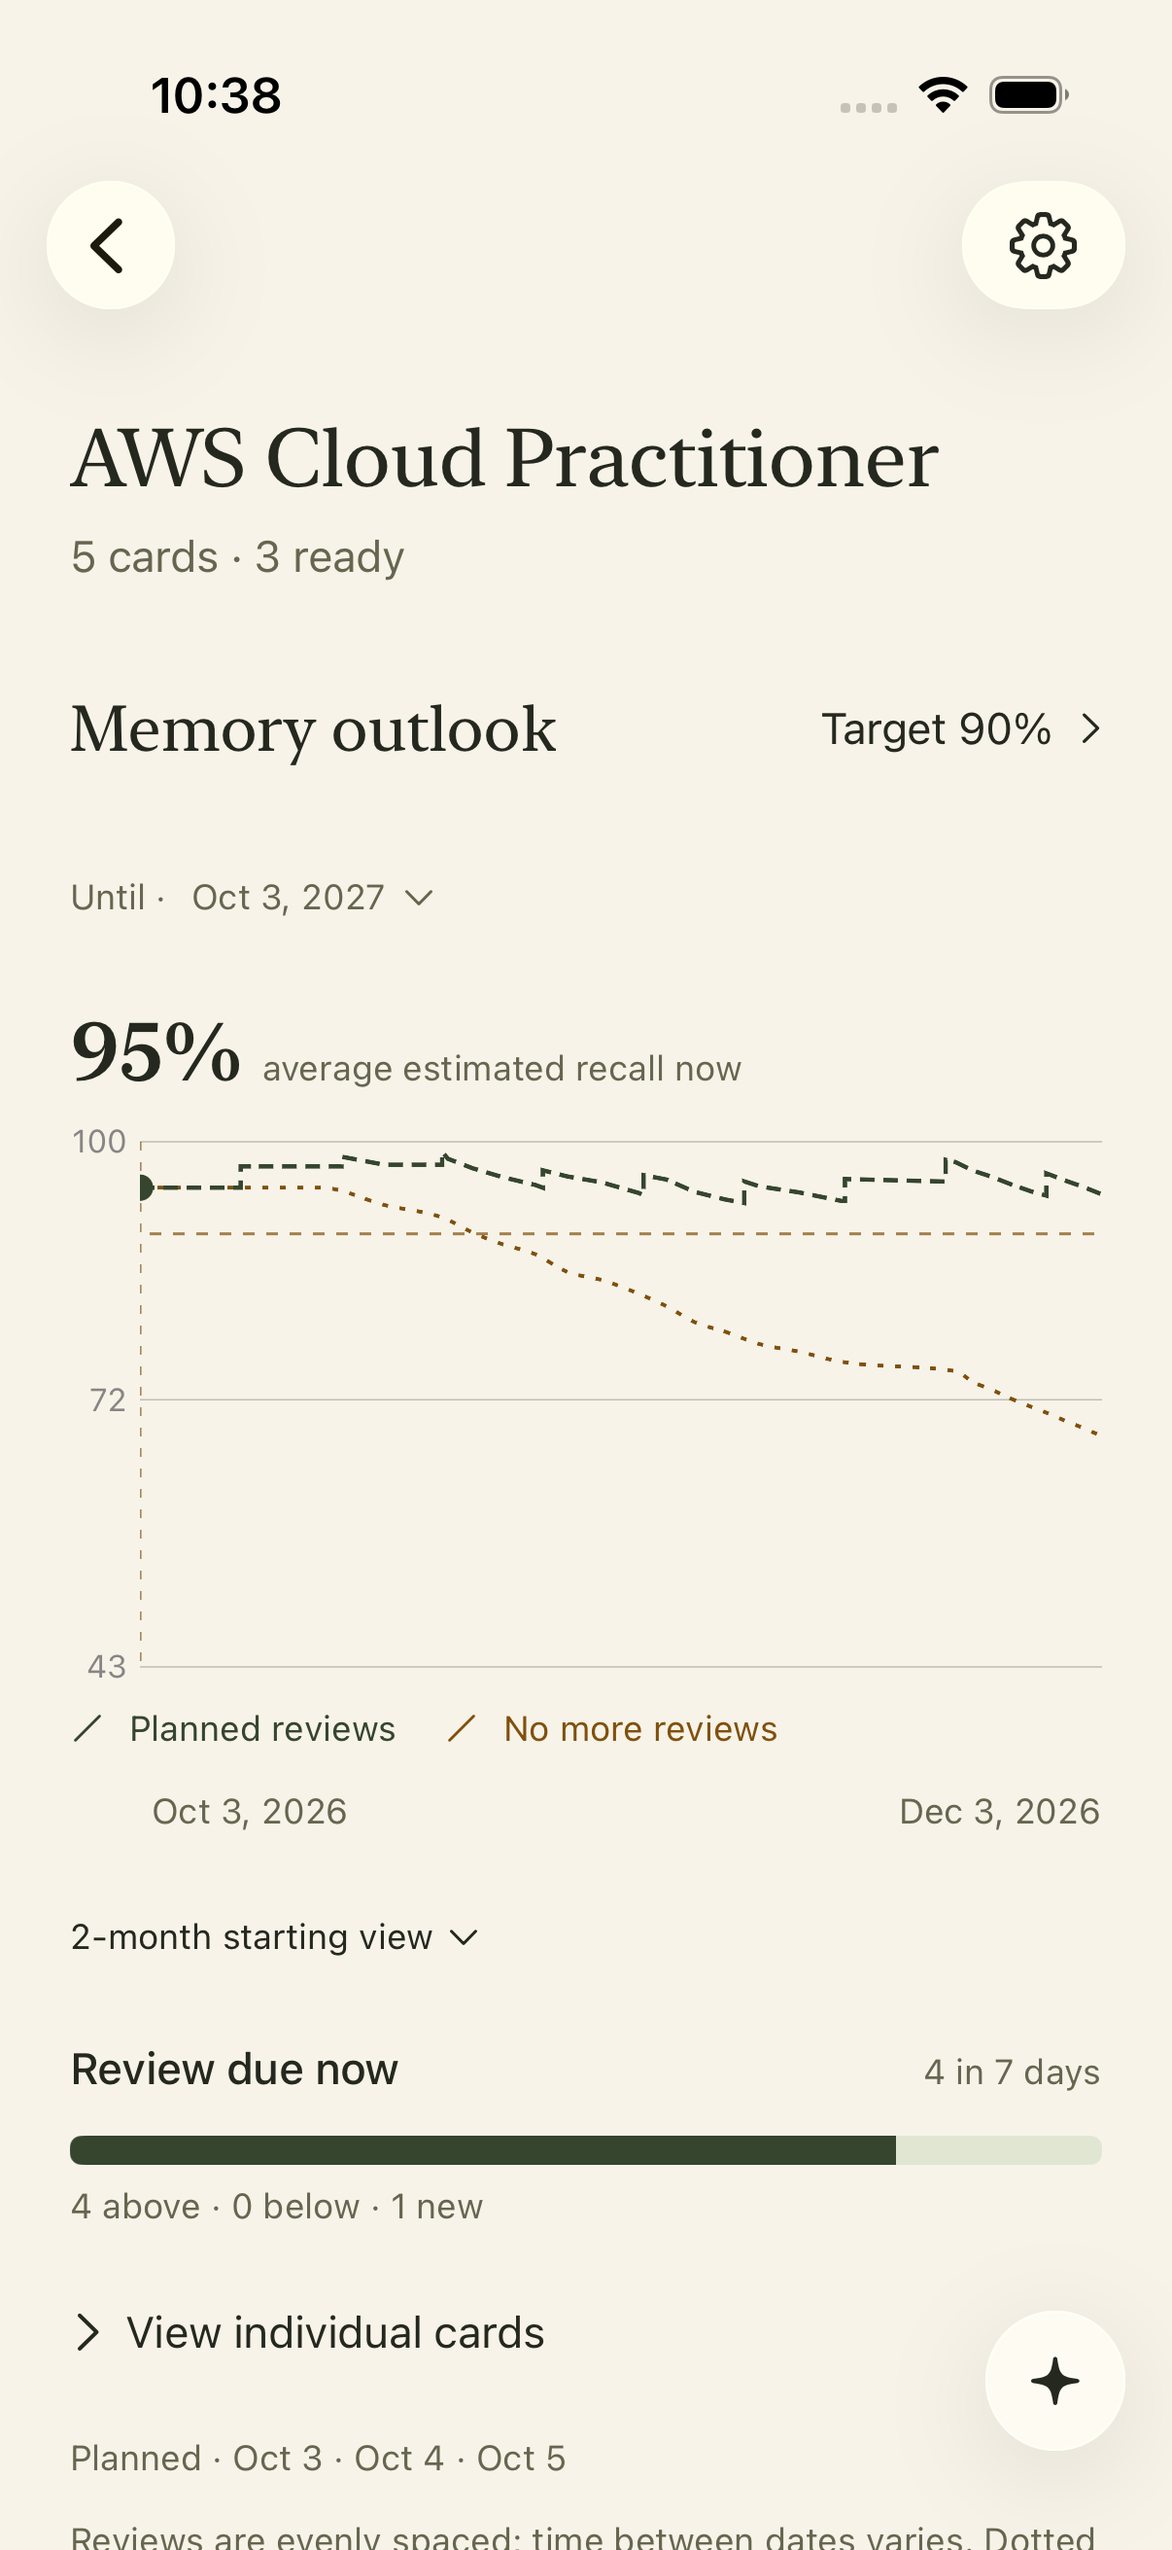
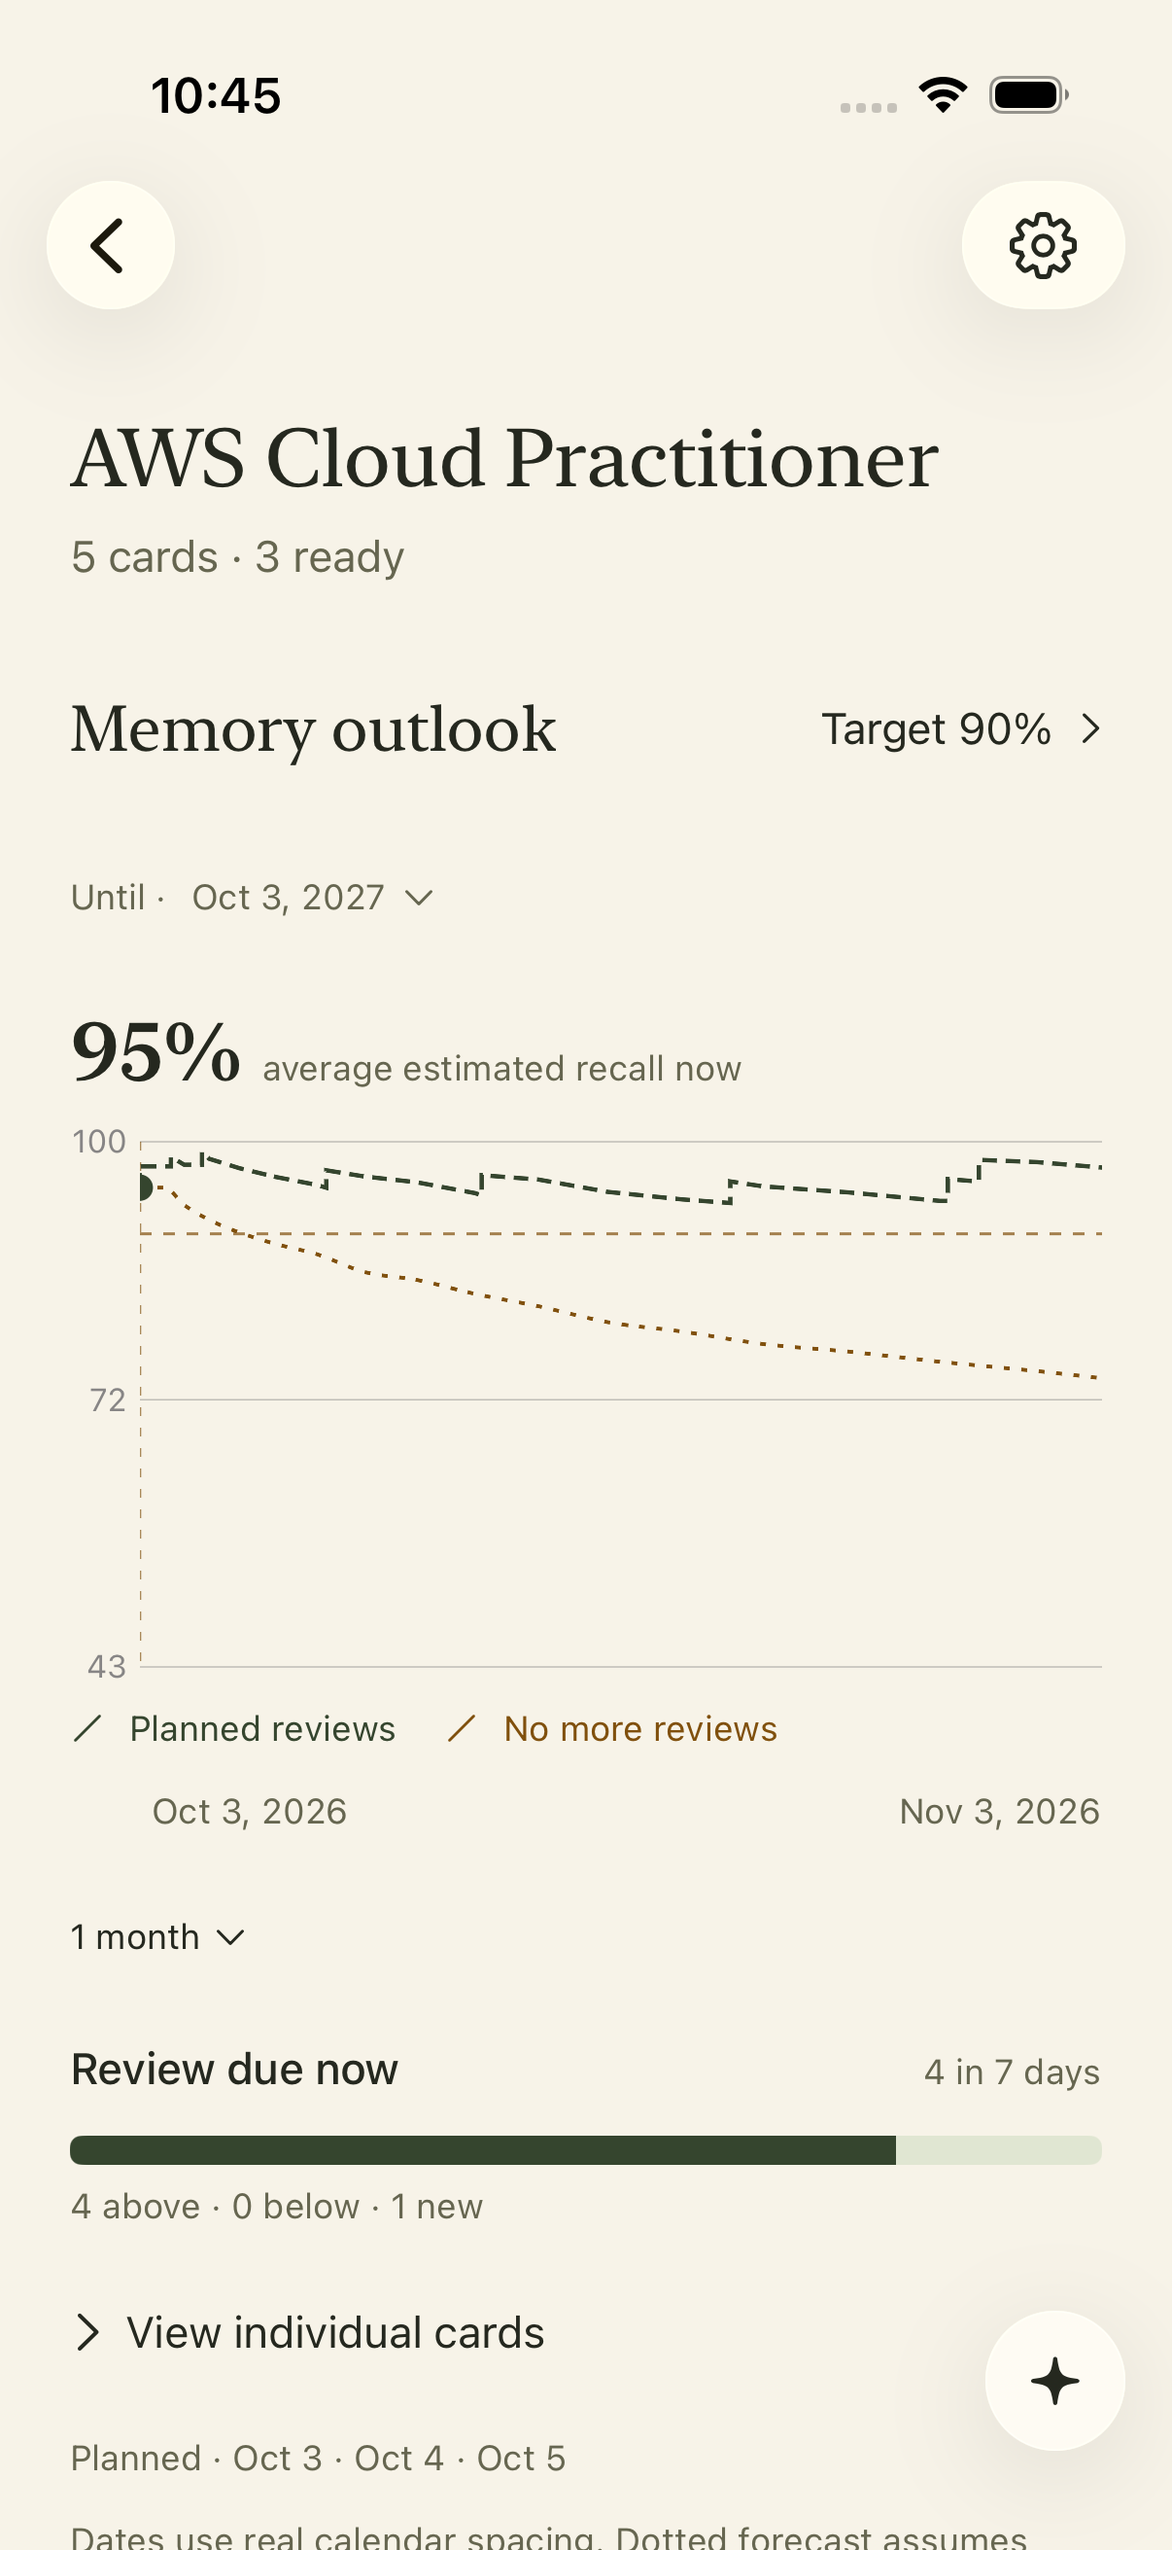
Restore calendar graph spacing with one-month scroll window

diff --git a/Sources/Features/DeckMemoryPanel.swift b/Sources/Features/DeckMemoryPanel.swift
@@ -12,9 +12,9 @@ struct DeckMemoryPanel: View {
     @Environment(\.accessibilityReduceMotion) private var reduceMotion
     @State private var outlook: DeckMemoryOutlook?
     @State private var selectedCardID: String?
-    @State private var inspectedStep: Double?
-    @State private var reviewScroll = 0.0
-    @State private var windowMonths = 2
+    @State private var inspectedDate: Date?
+    @State private var timelineScroll = Date()
+    @State private var windowMonths = 1
     @State private var editingTarget = false
     @State private var useCustomTarget = false
     @State private var target = 0.9
@@ -34,9 +34,11 @@ struct DeckMemoryPanel: View {
 
     var body: some View {
         if let outlook {
-            let scale = ReviewStepScale(start: outlook.startDate, now: model.now, end: outlook.sampleDates.last ?? model.now.addingTimeInterval(1), reviews: (selected?.history ?? outlook.history).map(\.date) + (selected?.reviewDates ?? outlook.reviewDates))
-            let visibleSteps = scale.visibleSteps(months: windowMonths, now: model.now)
-            let window = DateInterval(start: scale.date(at: reviewScroll), end: scale.date(at: min(scale.maximum, reviewScroll + visibleSteps)))
+            let horizon = outlook.sampleDates.last ?? model.now.addingTimeInterval(1)
+            let visibleDuration = RetentionTimeline.duration(months: windowMonths, now: model.now, start: outlook.startDate, end: horizon)
+            let latestStart = max(outlook.startDate, horizon.addingTimeInterval(-visibleDuration))
+            let windowStart = min(max(timelineScroll, outlook.startDate), latestStart)
+            let window = DateInterval(start: windowStart, end: min(horizon, windowStart.addingTimeInterval(visibleDuration)))
             VStack(alignment: .leading, spacing: 14) {
                 HStack {
                     Text("Memory outlook").font(theme.font(.section))
@@ -70,7 +72,7 @@ struct DeckMemoryPanel: View {
                     let axis = DeckMemoryOutlook.recallAxisDomain(plateau: values.last)
                     Chart {
                         ForEach(selected?.history ?? outlook.history) { point in
-                            LineMark(x: .value("Review step", scale.position(point.date)), y: .value("Recall", point.probability * 100), series: .value("Period", "Recorded reviews"))
+                            LineMark(x: .value("Date", point.date), y: .value("Recall", point.probability * 100), series: .value("Period", "Recorded reviews"))
                                 .foregroundStyle(curveColor).lineStyle(StrokeStyle(lineWidth: 1.6))
                         }
 
@@ -78,45 +80,45 @@ struct DeckMemoryPanel: View {
                             .foregroundStyle(palette.accentInk.opacity(0.7))
                             .lineStyle(StrokeStyle(lineWidth: 1, dash: [4, 4]))
                         if let plannedDate {
-                            RuleMark(x: .value("Planned review", scale.position(plannedDate)))
+                            RuleMark(x: .value("Planned review", plannedDate))
                                 .foregroundStyle(palette.accentInk.opacity(0.65))
                                 .lineStyle(StrokeStyle(lineWidth: 1, dash: [3, 4]))
                         }
                         ForEach(values.enumerated().map { Point(id: $0.offset, date: outlook.sampleDates[$0.offset], probability: $0.element) }) { point in
-                            LineMark(x: .value("Review step", scale.position(point.date)), y: .value("Recall", point.probability * 100), series: .value("Period", "Forecast"))
+                            LineMark(x: .value("Date", point.date), y: .value("Recall", point.probability * 100), series: .value("Period", "Forecast"))
                                 .foregroundStyle(palette.answerSelectionInk)
                                 .lineStyle(StrokeStyle(lineWidth: 1.3, dash: [2, 4]))
                                 .interpolationMethod(.monotone)
                         }
                         ForEach(selected?.projection ?? outlook.projection) { point in
-                            LineMark(x: .value("Review step", scale.position(point.date)), y: .value("Recall", point.probability * 100), series: .value("Period", "Planned reviews"))
+                            LineMark(x: .value("Date", point.date), y: .value("Recall", point.probability * 100), series: .value("Period", "Planned reviews"))
                                 .foregroundStyle(curveColor).lineStyle(StrokeStyle(lineWidth: 1.5, dash: [5, 3]))
                                 .interpolationMethod(.linear)
                         }
-                        if let inspectedStep, let date = (selected?.reviewDates ?? outlook.reviewDates).min(by: { abs($0.timeIntervalSince(scale.date(at: inspectedStep))) < abs($1.timeIntervalSince(scale.date(at: inspectedStep))) }) {
-                            RuleMark(x: .value("Selected review", scale.position(date)))
+                        if let inspectedDate, let date = (selected?.reviewDates ?? outlook.reviewDates).min(by: { abs($0.timeIntervalSince(inspectedDate)) < abs($1.timeIntervalSince(inspectedDate)) }) {
+                            RuleMark(x: .value("Selected review", date))
                                 .foregroundStyle(palette.accentInk)
                                 .annotation(position: .top) { Text(date, format: .dateTime.month(.abbreviated).day()).font(.caption2).foregroundStyle(palette.primaryText) }
                         }
-                        PointMark(x:.value("Today",scale.position(model.now)),y:.value("Recall today",(values.first ?? 0) * 100))
+                        PointMark(x:.value("Today",model.now),y:.value("Recall today",(values.first ?? 0) * 100))
                             .foregroundStyle(curveColor).symbolSize(64)
                     }
                     .chartYScale(domain: axis)
                     .chartPlotStyle { plot in plot.clipped() }
-                    .chartXScale(domain: 0...scale.maximum)
+                    .chartXScale(domain: outlook.startDate...horizon)
                     .chartScrollableAxes(.horizontal)
-                    .chartXVisibleDomain(length: visibleSteps)
-                    .chartScrollPosition(x: $reviewScroll)
-                    .chartXSelection(value: $inspectedStep)
-                    .onChange(of: windowMonths) { _, _ in reviewScroll = min(scale.position(model.now), max(0, scale.maximum - visibleSteps)); inspectedStep = nil }
-                    .onChange(of: selectedCardID) { _, _ in reviewScroll = min(scale.position(model.now), max(0, scale.maximum - visibleSteps)); inspectedStep = nil }
-                    .onAppear { reviewScroll = min(scale.position(model.now), max(0, scale.maximum - visibleSteps)) }
+                    .chartXVisibleDomain(length: visibleDuration)
+                    .chartScrollPosition(x: $timelineScroll)
+                    .chartXSelection(value: $inspectedDate)
+                    .onChange(of: windowMonths) { _, _ in timelineScroll = min(model.now, latestStart); inspectedDate = nil }
+                    .onChange(of: selectedCardID) { _, _ in timelineScroll = min(model.now, latestStart); inspectedDate = nil }
+                    .onAppear { timelineScroll = min(model.now, latestStart) }
                     .chartXAxis(.hidden)
                     .chartYAxis { AxisMarks(position: .leading, values: [axis.lowerBound, ((axis.lowerBound + 100) / 2).rounded(), 100]) }
                     .frame(height: 180)
                     .accessibilityIdentifier("deck-retention-chart")
-                    .accessibilityAction(named: "Next window") { reviewScroll = min(max(0, scale.maximum - visibleSteps), reviewScroll + visibleSteps) }
-                    .accessibilityAction(named: "Previous window") { reviewScroll = max(0, reviewScroll - visibleSteps) }
+                    .accessibilityAction(named: "Next window") { timelineScroll = min(latestStart, timelineScroll.addingTimeInterval(visibleDuration)) }
+                    .accessibilityAction(named: "Previous window") { timelineScroll = max(outlook.startDate, timelineScroll.addingTimeInterval(-visibleDuration)) }
                     .animation(reduceMotion ? nil : .easeOut(duration: 0.25), value: selectedCardID)
                     .accessibilityLabel("Estimated recall \(Int((values.first ?? 0) * 100)) percent today, against a \(Int(outlook.target * 100)) percent target; forecast assumes Good at each planned review")
                     HStack(spacing: 16) {
@@ -132,10 +134,10 @@ struct DeckMemoryPanel: View {
                         Button("2 months") { setWindow(2) }
                         Button("3 months") { setWindow(3) }
                         Button("Full horizon") { setWindow(0) }
-                        if windowMonths > 0 { Button("Back to today") { reviewScroll = min(scale.position(model.now), max(0, scale.maximum - visibleSteps)); inspectedStep = nil } }
+                        if windowMonths > 0 { Button("Back to today") { timelineScroll = min(model.now, latestStart); inspectedDate = nil } }
                     } label: {
                         HStack(spacing: 4) {
-                            Text(windowMonths == 0 ? "Full horizon" : windowMonths == 1 ? "1-month starting view" : "\(windowMonths)-month starting view")
+                            Text(windowMonths == 0 ? "Full horizon" : windowMonths == 1 ? "1 month" : "\(windowMonths) months")
                             Image(systemName: "chevron.down").font(.caption2)
                         }.font(.caption).frame(minHeight: 44)
                     }.accessibilityIdentifier("deck-graph-range")
@@ -179,7 +181,7 @@ struct DeckMemoryPanel: View {
                     Text("Planned · " + (selected?.reviewDates ?? outlook.reviewDates).filter { window.contains($0) }.prefix(3).map { $0.formatted(.dateTime.month(.abbreviated).day()) }.joined(separator: " · "))
                         .font(.caption).foregroundStyle(palette.secondaryText)
                 }
-                Text("Reviews are evenly spaced; time between dates varies. Dotted forecast assumes Good at due dates. New and unsupported cards are excluded.")
+                Text("Dates use real calendar spacing. Dotted forecast assumes Good at due dates. New and unsupported cards are excluded.")
                     .font(.caption).foregroundStyle(palette.secondaryText)
             }
             .task(id: "\(model.library.revision)-\(deck.id)-\(Int(model.now.timeIntervalSince1970 / 60))") {
@@ -244,7 +246,7 @@ struct DeckMemoryPanel: View {
     }
 
     private func setWindow(_ months: Int) {
-        windowMonths = months; inspectedStep = nil
+        windowMonths = months; inspectedDate = nil
     }
 
     private var useDeadline: Bool { (deck.examDate ?? .distantPast) > model.now }

diff --git a/Tests/EngramTests/DeckMemoryOutlookTests.swift b/Tests/EngramTests/DeckMemoryOutlookTests.swift
@@ -47,27 +47,15 @@ final class DeckMemoryOutlookTests: XCTestCase {
         XCTAssertEqual(activity.decks.first?.counts[.belowTarget], 1)
     }
 
-    func testReviewStepsAreEqualDespiteDifferentTimeIntervals() {
-        let start = Date(timeIntervalSince1970: 0)
-        let first = start.addingTimeInterval(86_400)
-        let second = start.addingTimeInterval(10 * 86_400)
-        let third = start.addingTimeInterval(100 * 86_400)
-        let end = start.addingTimeInterval(365 * 86_400)
-        let scale = ReviewStepScale(start: start, now: start, end: end, reviews: [third, first, second, first])
-        XCTAssertEqual(scale.position(first), 1)
-        XCTAssertEqual(scale.position(second), 2)
-        XCTAssertEqual(scale.position(third), 3)
-        let middle = first.addingTimeInterval(second.timeIntervalSince(first) / 2)
-        XCTAssertEqual(scale.position(middle), 1.5, accuracy: 0.001)
-        XCTAssertEqual(scale.date(at: 1.5), middle)
-        XCTAssertEqual(scale.date(at: -1), start)
-        XCTAssertEqual(scale.date(at: 100), end)
-        XCTAssertEqual(scale.visibleSteps(months: 0, now: start), scale.maximum)
-        XCTAssertGreaterThan(scale.visibleSteps(months: 2, now: start), 2)
-        XCTAssertLessThan(scale.visibleSteps(months: 2, now: start), 3)
-        let empty = ReviewStepScale(start: start, now: start, end: start, reviews: [])
-        XCTAssertGreaterThan(empty.maximum, 0)
-        XCTAssertGreaterThan(empty.date(at: empty.maximum), start)
+    func testCalendarViewportDefaultsToOneMonthAndRespectsHorizon() {
+        var calendar = Calendar(identifier: .gregorian); calendar.timeZone = .gmt
+        let now = calendar.date(from: DateComponents(year: 2026, month: 10, day: 3))!
+        let end = calendar.date(byAdding: .year, value: 1, to: now)!
+        let span = RetentionTimeline.duration(months: 1, now: now, start: now, end: end, calendar: calendar)
+        XCTAssertEqual(now.addingTimeInterval(span), calendar.date(from: DateComponents(year: 2026, month: 11, day: 3)))
+        XCTAssertEqual(RetentionTimeline.duration(months: 0, now: now, start: now, end: end), end.timeIntervalSince(now))
+        XCTAssertEqual(RetentionTimeline.duration(months: 1, now: now, start: now, end: now.addingTimeInterval(100)), 100)
+        XCTAssertGreaterThan(RetentionTimeline.duration(months: 1, now: now, start: now, end: now), 0)
     }
 
     func testPlateauAxisZoomAndSafeFallback() {

diff --git a/Tests/EngramUITests/MinimalistStudyUITests.swift b/Tests/EngramUITests/MinimalistStudyUITests.swift
@@ -8,14 +8,14 @@ final class MinimalistStudyUITests: XCTestCase {
         app.buttons["library-deck-ui-deck"].tap()
         let range = app.buttons["deck-graph-range"]
         XCTAssertTrue(range.waitForExistence(timeout: 5))
-        XCTAssertTrue(range.label.contains("2-month"))
+        XCTAssertTrue(range.label.contains("1 month"))
         let dates = app.descendants(matching: .any)["deck-graph-window"].firstMatch
         let initial = dates.label
-        capture("Deck-Even-Reviews", app)
+        capture("Deck-One-Month", app)
         let chart = app.descendants(matching: .any)["deck-retention-chart"].firstMatch
         chart.swipeLeft()
         XCTAssertTrue(NSPredicate(format: "label != %@", initial).evaluate(with: dates))
-        capture("Deck-Scrolled-Reviews", app)
+        capture("Deck-Scrolled-Timeline", app)
         chart.swipeRight()
         XCTAssertNotEqual(dates.label, "")
         range.tap()

diff --git a/Sources/StudyApplication/RetentionTimeline.swift b/Sources/StudyApplication/RetentionTimeline.swift
@@ -1,0 +1,11 @@
+import Foundation
+
+public enum RetentionTimeline {
+    /// A calendar month at today determines the scrollable viewport duration.
+    public static func duration(months: Int, now: Date, start: Date, end: Date, calendar: Calendar = .current) -> TimeInterval {
+        let full = max(1, end.timeIntervalSince(start))
+        guard months > 0 else { return full }
+        let until = calendar.date(byAdding: .month, value: months, to: now) ?? now.addingTimeInterval(30 * 86_400)
+        return min(full, max(1, until.timeIntervalSince(now)))
+    }
+}

diff --git a/docs/DECK-RETENTION-HORIZON.md b/docs/DECK-RETENTION-HORIZON.md
@@ -36,3 +36,8 @@ The horizontal axis now uses review steps, superseding calendar spacing and disc
 
 All ten focused tests passed, including equal positions for review dates separated by 1, 10 and 100 days, inverse date mapping, duplicate review timestamps and bounds. Native simulator scrolling and full-horizon selection passed in /tmp/engram-review-steps-scroll.xcresult. Initial and scrolled screenshots were inspected and rotated in current_ui.
 Signed app installed and launched on the paired iPhone at 22:40 on 3 October 2026.
+
+Latest preference: restore true calendar-time spacing and default to one month, retaining smooth native horizontal scrolling and momentum. The viewport uses the duration from today to one calendar month later (bounded by the horizon); scrolling keeps that duration. Two/three-month and full-horizon choices remain. Dates, historical estimates, the planned-review forecast, orange no-review comparison and fixed Y-axis remain unchanged. The equal-review-step mapping was removed.
+
+All ten focused tests passed, including the one-month duration, full horizon, short horizon and safe bounds. Native default-range, scroll and full-horizon checks passed in /tmp/engram-month-timeline.xcresult. Initial and scrolled screenshots were inspected and rotated in current_ui.
+Signed app installed and launched on the paired iPhone at 22:46 on 3 October 2026.
